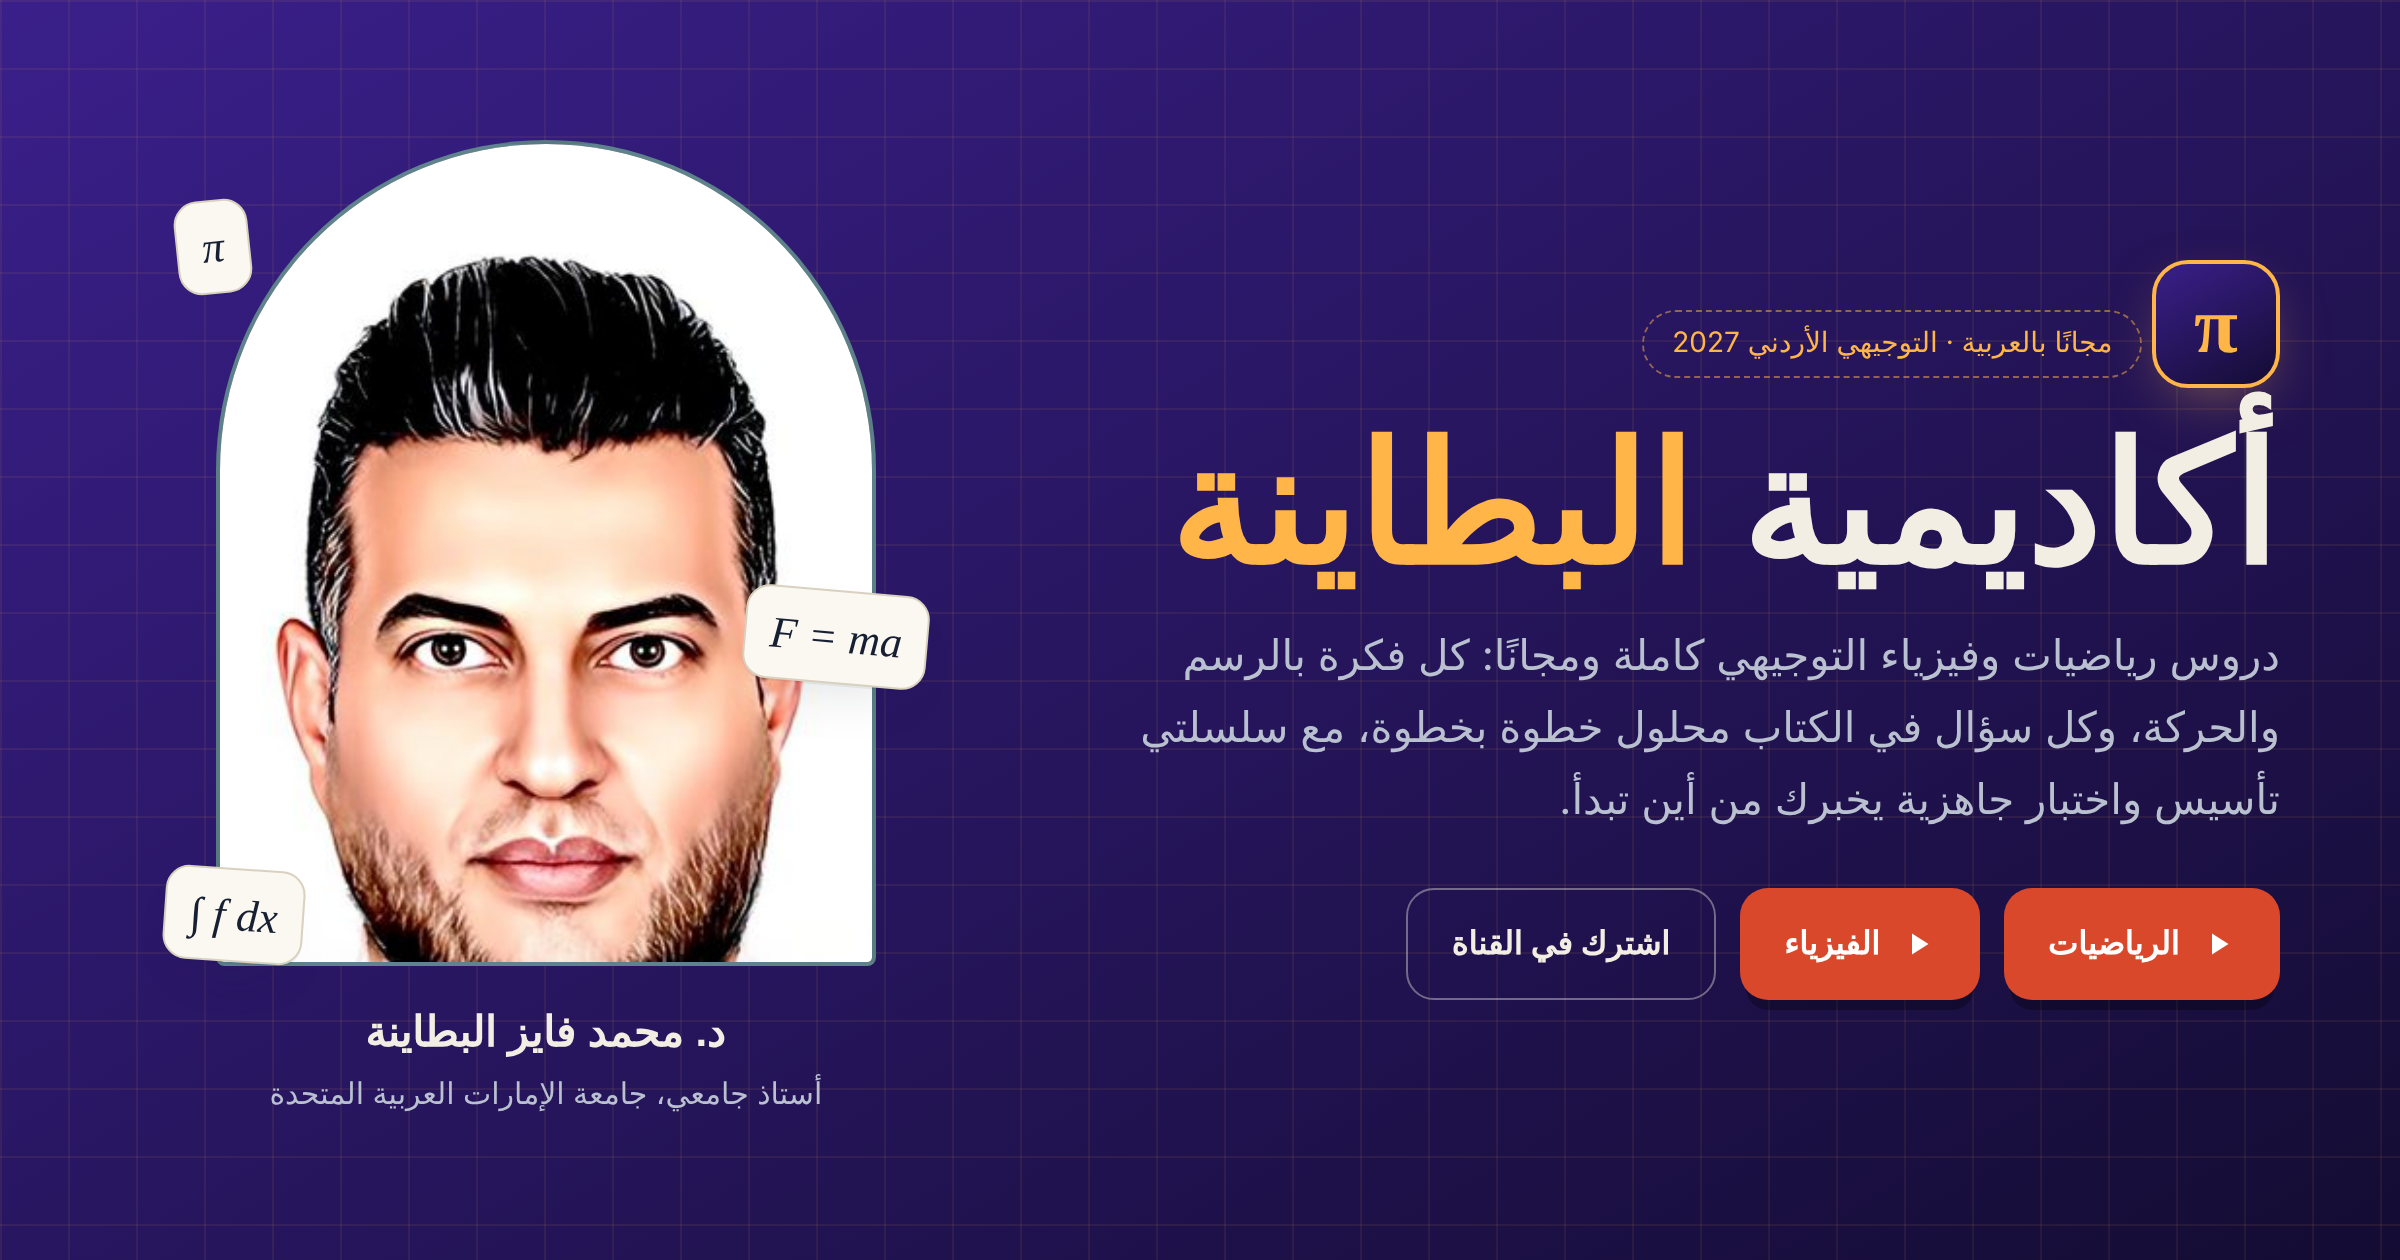
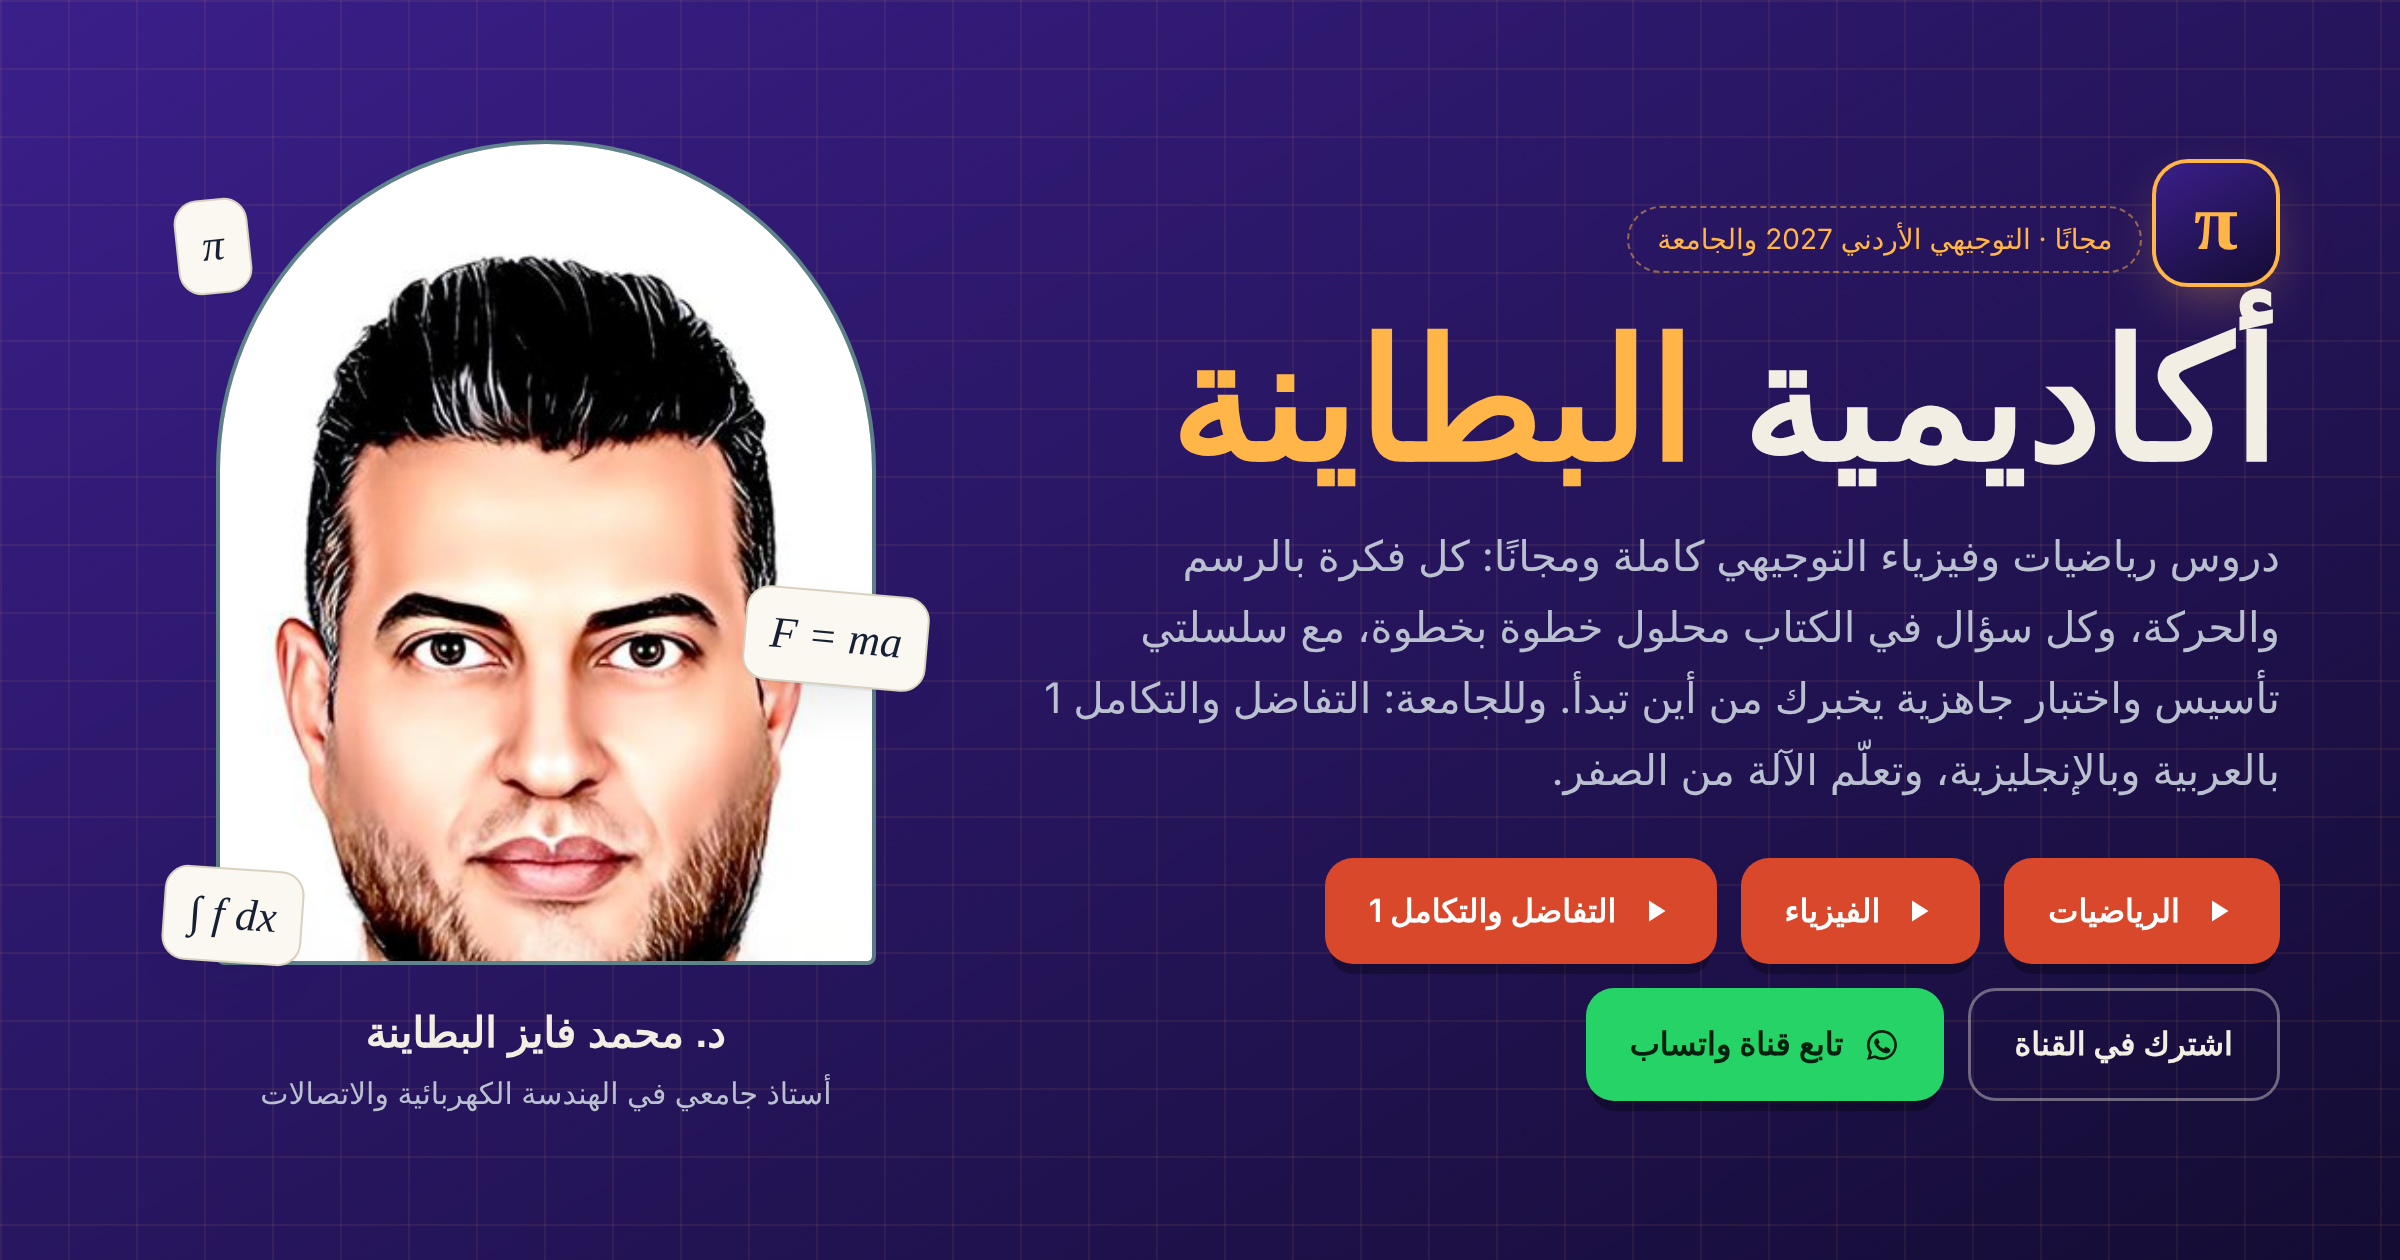
Academy: update counts and wording for university courses, new share preview, Calculus link on remaining menus
Claude-Session: https://claude.ai/code/session_01McY71UoQ9p1ZdZCtpZU65E

diff --git a/academy.html b/academy.html
@@ -4,13 +4,13 @@
 <meta charset="utf-8">
 <meta name="viewport" content="width=device-width, initial-scale=1">
 <meta name="claude:viewport-fit-sides" content="cover">
-<title>أكاديمية البطاينة | دروس التوجيهي المجانية</title>
-<meta name="description" content="أكاديمية البطاينة: دروس رياضيات وفيزياء التوجيهي 2027 مجانًا بالعربية، بالرسم والحركة، مع سلسلتي تأسيس واختبارات جاهزية.">
+<title>أكاديمية البطاينة | دروس مجانية للتوجيهي والجامعة</title>
+<meta name="description" content="أكاديمية البطاينة: دروس رياضيات وفيزياء التوجيهي 2027 مجانًا بالعربية، بالرسم والحركة، مع سلسلتي تأسيس واختبارات جاهزية، ودورات جامعية مثل التفاضل والتكامل 1 وتعلّم الآلة.">
 <meta property="og:type" content="website">
 <meta property="og:locale" content="ar_AR">
 <meta property="og:url" content="https://mffbataineh.github.io/academy.html">
-<meta property="og:title" content="أكاديمية البطاينة: رياضيات وفيزياء التوجيهي مجانًا">
-<meta property="og:description" content="أكثر من 160 فيديو مجاني بالعربية، مع اختبارات جاهزية تخبرك من أين تبدأ.">
+<meta property="og:title" content="أكاديمية البطاينة: التوجيهي والجامعة مجانًا">
+<meta property="og:description" content="أكثر من 290 فيديو مجاني للتوجيهي والجامعة، مع اختبارات جاهزية تخبرك من أين تبدأ.">
 <meta property="og:image" content="https://mffbataineh.github.io/academy-preview.png">
 <meta property="og:image:width" content="2400">
 <meta property="og:image:height" content="1260">
@@ -177,9 +177,9 @@ footer .cta{justify-content:center}
  <div class="hero-in">
   <div>
    <div class="logo" aria-hidden="true">π</div>
-   <p class="kick">مجانًا بالعربية · التوجيهي الأردني 2027</p>
+   <p class="kick">مجانًا · التوجيهي الأردني 2027 والجامعة</p>
    <h1>أكاديمية <em>البطاينة</em></h1>
-   <p class="lead">دروس رياضيات وفيزياء التوجيهي كاملة ومجانًا: كل فكرة بالرسم والحركة، وكل سؤال في الكتاب محلول خطوة بخطوة، مع سلسلتي تأسيس واختبار جاهزية يخبرك من أين تبدأ.</p>
+   <p class="lead">دروس رياضيات وفيزياء التوجيهي كاملة ومجانًا: كل فكرة بالرسم والحركة، وكل سؤال في الكتاب محلول خطوة بخطوة، مع سلسلتي تأسيس واختبار جاهزية يخبرك من أين تبدأ. وللجامعة: التفاضل والتكامل 1 بالعربية وبالإنجليزية، وتعلّم الآلة من الصفر.</p>
    <div class="cta">
     <a class="pill p" href="tawjihi.html"><svg viewBox="0 0 24 24" aria-hidden="true"><path d="M8 5v14l11-7z"/></svg>الرياضيات</a>
     <a class="pill p" href="physics.html"><svg viewBox="0 0 24 24" aria-hidden="true"><path d="M8 5v14l11-7z"/></svg>الفيزياء</a>
@@ -188,9 +188,9 @@ footer .cta{justify-content:center}
     <a class="pill wa" href="https://whatsapp.com/channel/0029Vb9OfTmH5JLti8KH480T" target="_blank" rel="noopener"><svg viewBox="0 0 24 24" aria-hidden="true"><path d="M12 2a10 10 0 0 0-8.6 15.1L2 22l5-1.3A10 10 0 1 0 12 2Zm0 18.2a8.2 8.2 0 0 1-4.2-1.2l-.3-.2-3 .8.8-2.9-.2-.3A8.2 8.2 0 1 1 12 20.2Zm4.5-6.1c-.2-.1-1.5-.7-1.7-.8s-.4-.1-.6.1-.6.8-.8 1-.3.2-.5.1a6.7 6.7 0 0 1-3.3-2.9c-.2-.4.2-.4.7-1.3a.4.4 0 0 0 0-.4l-.8-1.8c-.2-.5-.4-.4-.6-.4h-.5a1 1 0 0 0-.7.3 3 3 0 0 0-.9 2.2 5.2 5.2 0 0 0 1.1 2.7 11.8 11.8 0 0 0 4.5 4c1.7.7 2.3.8 3.2.6a2.7 2.7 0 0 0 1.8-1.2 2.2 2.2 0 0 0 .1-1.3c0-.1-.2-.2-.5-.3Z"/></svg>تابع قناة واتساب</a>
    </div>
    <ul class="facts">
-    <li><b>2</b><span>مادتان</span></li>
-    <li><b>160+</b><span>فيديو طويل</span></li>
-    <li><b>160+</b><span>مقطع Short</span></li>
+    <li><b>12</b><span>سلسلة</span></li>
+    <li><b>290+</b><span>فيديو طويل</span></li>
+    <li><b>170+</b><span>مقطع Short</span></li>
     <li><b>0</b><span>تكلفة</span></li>
    </ul>
   </div>

diff --git a/academy-en.html b/academy-en.html
@@ -4,13 +4,13 @@
 <meta charset="utf-8">
 <meta name="viewport" content="width=device-width, initial-scale=1">
 <meta name="claude:viewport-fit-sides" content="cover">
-<title>Bataineh Academy | Free Tawjihi Lessons</title>
-<meta name="description" content="Bataineh Academy: free Tawjihi 2027 math and physics lessons, taught in Arabic with animation, plus two foundation series and readiness tests.">
+<title>Bataineh Academy | Free Tawjihi and University Lessons</title>
+<meta name="description" content="Bataineh Academy: free Tawjihi 2027 math and physics lessons, taught in Arabic with animation, plus two foundation series, readiness tests, and university courses such as Calculus I and Machine Learning.">
 <meta property="og:type" content="website">
 <meta property="og:locale" content="en_US">
 <meta property="og:url" content="https://mffbataineh.github.io/academy-en.html">
-<meta property="og:title" content="Bataineh Academy: free Tawjihi math and physics">
-<meta property="og:description" content="More than 160 free videos in Arabic, with readiness tests that tell you where to start.">
+<meta property="og:title" content="Bataineh Academy: free Tawjihi and university lessons">
+<meta property="og:description" content="More than 290 free videos for Tawjihi and university, with readiness tests that tell you where to start.">
 <meta property="og:image" content="https://mffbataineh.github.io/academy-preview.png">
 <meta property="og:image:width" content="2400">
 <meta property="og:image:height" content="1260">
@@ -177,9 +177,9 @@ footer .cta{justify-content:center}
  <div class="hero-in">
   <div>
    <div class="logo" aria-hidden="true">π</div>
-   <p class="kick">Free · Taught in Arabic · Jordanian Tawjihi 2027</p>
+   <p class="kick">Free · Jordanian Tawjihi 2027 and university</p>
    <h1>Bataineh <em>Academy</em></h1>
-   <p class="lead">Complete Tawjihi math and physics lessons, free: every idea drawn and animated, every question in the textbook solved step by step, plus two foundation series and a readiness test that tells you where to start.</p>
+   <p class="lead">Complete Tawjihi math and physics lessons, free: every idea drawn and animated, every question in the textbook solved step by step, plus two foundation series and a readiness test that tells you where to start. For university: Calculus I in English and in Arabic, and Machine Learning from Scratch.</p>
    <div class="cta">
     <a class="pill p" href="tawjihi.html"><svg viewBox="0 0 24 24" aria-hidden="true"><path d="M8 5v14l11-7z"/></svg>Math</a>
     <a class="pill p" href="physics.html"><svg viewBox="0 0 24 24" aria-hidden="true"><path d="M8 5v14l11-7z"/></svg>Physics</a>
@@ -188,9 +188,9 @@ footer .cta{justify-content:center}
     <a class="pill wa" href="https://whatsapp.com/channel/0029Vb9OfTmH5JLti8KH480T" target="_blank" rel="noopener"><svg viewBox="0 0 24 24" aria-hidden="true"><path d="M12 2a10 10 0 0 0-8.6 15.1L2 22l5-1.3A10 10 0 1 0 12 2Zm0 18.2a8.2 8.2 0 0 1-4.2-1.2l-.3-.2-3 .8.8-2.9-.2-.3A8.2 8.2 0 1 1 12 20.2Zm4.5-6.1c-.2-.1-1.5-.7-1.7-.8s-.4-.1-.6.1-.6.8-.8 1-.3.2-.5.1a6.7 6.7 0 0 1-3.3-2.9c-.2-.4.2-.4.7-1.3a.4.4 0 0 0 0-.4l-.8-1.8c-.2-.5-.4-.4-.6-.4h-.5a1 1 0 0 0-.7.3 3 3 0 0 0-.9 2.2 5.2 5.2 0 0 0 1.1 2.7 11.8 11.8 0 0 0 4.5 4c1.7.7 2.3.8 3.2.6a2.7 2.7 0 0 0 1.8-1.2 2.2 2.2 0 0 0 .1-1.3c0-.1-.2-.2-.5-.3Z"/></svg>Follow on WhatsApp</a>
    </div>
    <ul class="facts">
-    <li><b>2</b><span>subjects</span></li>
-    <li><b>160+</b><span>long videos</span></li>
-    <li><b>160+</b><span>Shorts</span></li>
+    <li><b>12</b><span>series</span></li>
+    <li><b>290+</b><span>long videos</span></li>
+    <li><b>170+</b><span>Shorts</span></li>
     <li><b>0</b><span>cost</span></li>
    </ul>
   </div>

diff --git a/academy/index.html b/academy/index.html
@@ -3,7 +3,7 @@
 <head>
 <meta charset="utf-8">
 <meta name="viewport" content="width=device-width, initial-scale=1">
-<title>أكاديمية البطاينة: مذكرات توجيهي 2027 للرياضيات والفيزياء</title>
+<title>أكاديمية البطاينة: مذكرات التوجيهي والجامعة</title>
 <meta name="description" content="مذكرات مجانية لتوجيهي 2027 في الرياضيات والفيزياء، مرافقة للسلسلتين المجانيتين على يوتيوب، ومذكرة التفاضل والتكامل 1 لطلاب الجامعة بالعربية والإنجليزية.">
 <meta property="og:type" content="website">
 <meta property="og:locale" content="ar_AR">
@@ -168,7 +168,7 @@ dialog::backdrop{background:rgba(10,16,27,.6)}
 
 <div class="bar">
   <a class="brand" href="https://mffbataineh.github.io/academy.html"><i>ب</i>أكاديمية البطاينة</a>
-  <nav><a href="#products">المذكرات</a><a href="#faq">أسئلة شائعة</a><a href="https://mffbataineh.github.io/tawjihi.html">فيديوهات الرياضيات</a><a href="https://mffbataineh.github.io/physics.html">فيديوهات الفيزياء</a></nav>
+  <nav><a href="#products">المذكرات</a><a href="#faq">أسئلة شائعة</a><a href="https://mffbataineh.github.io/tawjihi.html">فيديوهات الرياضيات</a><a href="https://mffbataineh.github.io/physics.html">فيديوهات الفيزياء</a><a href="https://mffbataineh.github.io/calculus.html">التفاضل والتكامل</a></nav>
 </div>
 
 <header class="hero">

diff --git a/physics-foundation.html b/physics-foundation.html
@@ -144,7 +144,7 @@ footer .cta{justify-content:center}
 </head>
 <body>
 <div class="wrap">
-<nav class="topnav" aria-label="أكاديمية البطاينة"><a class="home" href="academy.html"><i aria-hidden="true">π</i><span>أكاديمية البطاينة</span></a><a href="tawjihi.html">الرياضيات</a><a href="physics.html" class="on">الفيزياء</a><a href="testimonials.html">آراء الطلاب</a><a href="academy/#physics">المذكرات</a></nav>
+<nav class="topnav" aria-label="أكاديمية البطاينة"><a class="home" href="academy.html"><i aria-hidden="true">π</i><span>أكاديمية البطاينة</span></a><a href="tawjihi.html">الرياضيات</a><a href="physics.html" class="on">الفيزياء</a><a href="calculus.html">التفاضل والتكامل</a><a href="testimonials.html">آراء الطلاب</a><a href="academy/#physics">المذكرات</a></nav>
 <section class="hero">
  <div class="hero-in">
   <div>

diff --git a/testimonials.html b/testimonials.html
@@ -179,7 +179,7 @@ footer .cta{justify-content:center}
 </head>
 <body>
 <div class="wrap">
-<nav class="topnav" aria-label="أكاديمية البطاينة"><a class="home" href="academy.html"><i aria-hidden="true">π</i><span>أكاديمية البطاينة</span></a><a href="tawjihi.html">الرياضيات</a><a href="physics.html">الفيزياء</a><a href="testimonials.html" class="on">آراء الطلاب</a><a href="academy/">المذكرات</a></nav>
+<nav class="topnav" aria-label="أكاديمية البطاينة"><a class="home" href="academy.html"><i aria-hidden="true">π</i><span>أكاديمية البطاينة</span></a><a href="tawjihi.html">الرياضيات</a><a href="physics.html">الفيزياء</a><a href="calculus.html">التفاضل والتكامل</a><a href="testimonials.html" class="on">آراء الطلاب</a><a href="academy/">المذكرات</a></nav>
 <section class="hero ac small">
  <div class="hero-in">
   <div>
